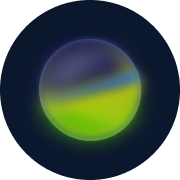
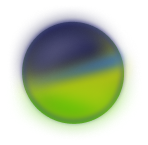
conditional render for blog images

diff --git a/src/components/writings/Writings.js b/src/components/writings/Writings.js
@@ -1,4 +1,4 @@
-import React, { Fragment } from "react";
+import React, { Fragment, useState } from "react";
 import { styled } from '@mui/material/styles';
 import Paper from '@mui/material/Paper';
 import Grid from '@mui/material/Grid';
@@ -14,13 +14,29 @@ const Item = styled(Paper)(({ theme }) => ({
 }));
 
 export default function Writings() {
+
+  let [curBlogImg, setCurBlogImg] = useState(<img src={require('../../assests/green-pink-planet.png')} alt='blog-image' />);
+
+  const changeBlogImg = (id) => {
+    console.log(id);
+    if(id === 'lexical'){
+        setCurBlogImg(<img src={require('../../assests/green-pink-planet.png')} alt='blog-image' />);
+    } else if(id === 'frontend') {
+        setCurBlogImg(<img src={require('../../assests/green-blue-planet.png')} alt='blog-image' />);  
+    } else if(id === 'dynamic') {
+        setCurBlogImg(<img src={require('../../assests/red-blue-planet.png')} alt='blog-image' />);  
+    } else if(id === 'imperative'){
+      setCurBlogImg(<img src={require('../../assests/sun.png')} alt='blog-image' />);  
+    }
+  };
+
   return (
     <Fragment>
-    <h1 className='blog-section'>WRITINGS</h1>
+    <div className="writings-section">
     <div className='blog-posts'>
       <Grid container spacing={2} columns={16}>
         <Grid item xs={16}>
-          <a href='https://medium.com/@jordjamestaylor/lexical-environment-execution-context-call-stack-and-scope-in-javascript-5be2bc6953c3' target='blank'>
+          <a id='lexical' onMouseOver={e => changeBlogImg(e.currentTarget.id)} href='https://medium.com/@jordjamestaylor/lexical-environment-execution-context-call-stack-and-scope-in-javascript-5be2bc6953c3' target='blank'>
           <Item className='blog-post'>
             <h1 className='blog-titles'>
               Lexical Environment, Execution Context...    
@@ -29,7 +45,7 @@ export default function Writings() {
           </a>
         </Grid>
         <Grid item xs={16}>
-          <a href='https://medium.com/@jordjamestaylor/frontend-vs-backend-a20dcdc4d07b' target='blank'>
+          <a id='frontend' onMouseOver={e => changeBlogImg(e.currentTarget.id)} href='https://medium.com/@jordjamestaylor/frontend-vs-backend-a20dcdc4d07b' target='blank'>
           <Item className='blog-post'>
               <h1 className='blog-titles'>
                 Frontend Vs Backend    
@@ -38,7 +54,7 @@ export default function Writings() {
           </a>
         </Grid>
         <Grid item xs={16}>
-          <a href='https://medium.com/@jordjamestaylor/dynamic-vs-static-a403ae97b468' target='blank'>
+          <a id='dynamic' onMouseOver={e => changeBlogImg(e.currentTarget.id)} href='https://medium.com/@jordjamestaylor/dynamic-vs-static-a403ae97b468' target='blank'>
           <Item className='blog-post'>
               <h1 className='blog-titles'>
                 Dynamic Vs Static Programming    
@@ -47,7 +63,7 @@ export default function Writings() {
           </a>
         </Grid>
         <Grid item xs={16}>
-          <a href='https://medium.com/@jordjamestaylor/moving-from-imperative-to-declarative-programming-bcf01f085179' target='blank'>
+          <a id='imperative' onMouseOver={e => changeBlogImg(e.currentTarget.id)} href='https://medium.com/@jordjamestaylor/moving-from-imperative-to-declarative-programming-bcf01f085179' target='blank'>
           <Item className='blog-post'>
               <h1 className='blog-titles'>
                 Imperative Vs Declarative Programming    
@@ -56,6 +72,10 @@ export default function Writings() {
           </a>
         </Grid>
       </Grid>
+    </div>
+    <div className='blog-img'>
+      {curBlogImg}
+    </div>
     </div>
     </Fragment>
   );

diff --git a/src/App.js b/src/App.js
@@ -1,5 +1,8 @@
 import React, { Fragment, useRef } from 'react';
-import { createTheme, ThemeProvider } from '@mui/material';
+// import { createTheme, ThemeProvider } from '@mui/material';
+
+import MouseFollower from "mouse-follower";
+import gsap from "gsap";
 
 import Header from './components/header/Header';
 import About from './components/about/About';
@@ -10,15 +13,24 @@ import Writings from './components/writings/Writings';
 import './App.css';
 
 export default function App() {
-
+  
   // change material ui them to custom theme
   // const theme = createTheme({
-  //   typography: {
-  //     fontFamily: [  
-  //      'Bruno Ace SC', 'cursive';
-  //     ].join(','),
-  //   },
+    //   typography: {
+      //     fontFamily: [  
+        //      'Bruno Ace SC', 'cursive';
+        //     ].join(','),
+        //   },
   // });
+        
+  // following cursor animations
+  // const cursor = new MouseFollower({
+  //   container: document.body,
+  //   skewing: 15,
+  //   skewingText: 0.5,
+  //   stickDelta: 10,
+  // });
+  // MouseFollower.registerGSAP(gsap);
 
   // init useRef hook for each section
   const about = useRef(null);
@@ -45,12 +57,15 @@ export default function App() {
           <About />
         </section>
         <section ref={projects} className='projects-container'>
+          <h1 className='section-titles'>Projects</h1>
           <Projects />
         </section>
         <section ref={writings} className='writings-container'>
+        < h1 className='section-titles'>WRITINGS</h1>
           <Writings />
         </section>
         <section ref={contact} className='contact-container'>
+          <h1 className='section-titles'>Contact Me</h1>
           <Contact />
         </section>
       </div>

diff --git a/src/components/header/header.css b/src/components/header/header.css
@@ -1,4 +1,5 @@
 .orbital-paths {
+    min-height: 100vh;
     width: 100%;
     max-height: 100vh;
 }
@@ -17,6 +18,7 @@
 
 .intro-name {
     font-family: 'Bruno Ace SC', 'cursive';
+    cursor: default;
 }
 
 .link-icons {
@@ -37,7 +39,7 @@
 .sun {
     position: absolute;
     left: 0%;
-    top: 2%;
+    top: 3%;
     transition: all .2s ease-in-out; 
 }
 
@@ -45,19 +47,20 @@
     position: absolute;
     left: 52%;
     top: 20%;
+    border-radius: 100px;
     transition: all .2s ease-in-out; 
 }
 
 .projects-planet {
     position: absolute;
-    left: 25%;
+    left: 24%;
     top: 6%;
     transition: all .2s ease-in-out; 
 }
 
 .writings-planet {
     position: absolute;
-    left: 25%;
+    left: 28%;
     top: 48%;
     transition: all .2s ease-in-out; 
 }
@@ -71,7 +74,7 @@
 .about-planet:hover, .projects-planet:hover, .writings-planet:hover, .contact-planet:hover, .link-icons:hover{
     cursor: pointer;
     color: rgba(255, 255, 255, 1);
-    box-shadow: 0 5px 15px rgba(145, 92, 182, .4);
+    /* box-shadow: 0 5px 15px rgba(145, 92, 182, .4); */
     border-radius: 100px;
     transform: scale(1.1);
 }

diff --git a/src/components/header/Header.js b/src/components/header/Header.js
@@ -1,4 +1,4 @@
-import React, { Fragment, useRef } from 'react';
+import React, { Fragment } from 'react';
 
 import './header.css';
 
@@ -6,7 +6,7 @@ export default function Header({ about, projects, writings, contact, scrollToSec
 
     return (
         <Fragment>
-            <img className='orbital-paths' src={require('../../assests/header.png')} alt='cartoon solar system background' />
+            <img className='orbital-paths' src={require('../../assests/orbital-lines.png')} alt='cartoon solar system background' />
             
             <div className='sun'>
                 <img src={require('../../assests/sun.png')} onClick={() => scrollToSection(about)}/>

diff --git a/public/index.html b/public/index.html
@@ -5,11 +5,9 @@
     <meta name="viewport" content="width=device-width, initial-scale=1">
     <link rel="shortcut icon" href="%PUBLIC_URL%/favicon.ico">
     <script src="https://unpkg.com/react-router-dom/umd/react-router-dom.min.js"></script>
-    
     <link rel="preconnect" href="https://fonts.googleapis.com">
     <link rel="preconnect" href="https://fonts.gstatic.com" crossorigin>
     <link href="https://fonts.googleapis.com/css2?family=Bruno+Ace+SC&display=swap" rel="stylesheet">
-    
     <!--
       Notice the use of %PUBLIC_URL% in the tag above.
       It will be replaced with the URL of the `public` folder during the build.

diff --git a/src/components/writings/writings.css b/src/components/writings/writings.css
@@ -1,11 +1,21 @@
-.blog-section {
-    margin: 5% 0 5% 0;
-    color: whitesmoke;
-    font-family: 'Bruno Ace SC', 'cursive';
+.writings-section {
+    display: flex;
+    /* flex-direction: row;
+    justify-content: center; */
+    gap: 3%;
+    padding: 2%;
+}
+
+.blog-img {
+    flex-grow: 2;
+    width: 50%;
+    height: auto;
 }
 
 .blog-posts {
-    width: 80%;
+    flex-grow: 2;
+    width: 50%;
+    height: 100%;
     list-style-type: none;
     text-align: left;
     text-align: center;

diff --git a/src/App.css b/src/App.css
@@ -2,6 +2,13 @@
   text-align: center;
 }
 
+.section-titles {
+  color: whitesmoke;
+  padding: 2%;
+  font-family: 'Bruno Ace SC', 'cursive';
+  cursor: default;
+}
+
 .navbar {
   height: 40px;
   position: sticky; 
@@ -45,10 +52,10 @@
 }
 
 .projects-container {
-  display: flex;
+  /* display: flex;
   justify-content: center;
   align-items: center;
-  flex-grow: 1;
+  flex-grow: 1; */
   min-height: 100vh;
   margin: 25px 2% 0 2%;
 }

diff --git a/src/index.css b/src/index.css
@@ -5,7 +5,7 @@ body {
   min-height: 100vh;
   margin: 0;
   padding: 0;
-  background-color: #08003B;
+  background-color: #080B3E;
 }
 
 /* Center application on ele with ID root, not the body el */

diff --git a/src/components/contact/Contact.js b/src/components/contact/Contact.js
@@ -4,6 +4,6 @@ import './contact.css';
 
 export default function Contact() {
     return (
-        <h1>Contact Me</h1>
-    );
+            <></>
+        );
 };

diff --git a/src/components/about/about.css b/src/components/about/about.css
@@ -3,6 +3,7 @@
     padding-left: 18%;
     font-family: 'Bruno Ace SC', 'cursive';
     color: white;
+    cursor: default;    
 }
 
 .bio {

diff --git a/src/components/projects/projects.css b/src/components/projects/projects.css
@@ -15,6 +15,6 @@
     cursor: pointer;
 }
 
-.project-titles {
+/* .project-titles {
     font-family: 'Bruno Ace SC', 'cursive';
-}
+} */
